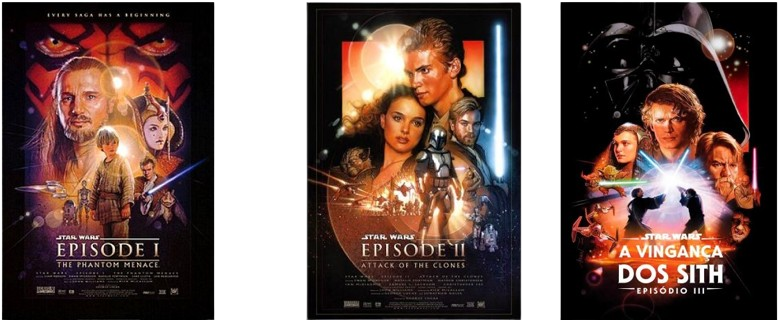
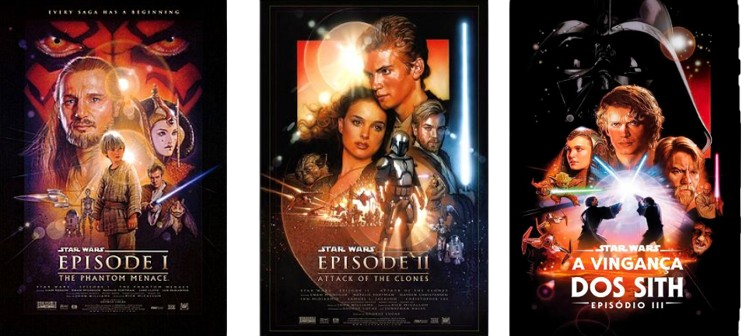
Correcao Css

diff --git a/Algoritomo/Site/public/index.html b/Algoritomo/Site/public/index.html
@@ -49,52 +49,52 @@
 
   <div style="background-image: url(Imagens/div_2.jpg);color: yellow; height: auto; display: flex;flex-direction: column; align-items: center;">
     <div style="display: flex; flex-direction: column;align-items:center;"> <br>
-      <div style="width: 3px; height: 128%;background-color: rgb(0, 0, 0);border-color: black;position: absolute;top: 1000px;left: 50%;"></div>
-<hr style="width: 8%; height: 4px;background-color: rgb(0, 0, 0);border-color: black;position: absolute;top: 135%;left: 42%;">
-<hr style="width: 8%; height: 4px;background-color: rgb(0, 0, 0);border-color: black;position: absolute;top: 178%;left: 50%;"> 
-<hr style="width: 8%; height: 4px;background-color: rgb(0, 0, 0);border-color: black;position: absolute;top: 215%;left: 42%;">    
+      <div style="width: 3px; height: 170%;background-color: rgb(0, 0, 0);border-color: black;position: absolute;top: 1165px;left: 50%;"></div>
+<hr style="width: 4%; height: 4px;background-color: rgb(0, 0, 0);border-color: black;position: absolute;top: 215%;left: 46%;">
+<hr style="width: 4%; height: 4px;background-color: rgb(0, 0, 0);border-color: black;position: absolute;top: 275%;left: 50%;"> 
+<hr style="width: 4%; height: 4px;background-color: rgb(0, 0, 0);border-color: black;position: absolute;top: 320%;left: 46%;">    
    <h1>Filmes</h1><br><br><br>
 
-<span style="margin-right: 70%;">TRILOGIA I</span><br>
-<img style="margin-right: 65%;" src="Imagens/Triologia_I.png"><br>
+<span style="margin-right: 54%;">TRILOGIA I</span><br><br>
+<img style="margin-right: 730px; height: 280px;" src="Imagens/Triologia_I.png"><br>
 
-<span style="margin-left: 70%;">TRILOGIA II</span><br>
-<img style="margin-left: 64%;" src="Imagens/Triologia_II.png"><br>
+<span style="margin-left: 760px;">TRILOGIA II</span><br><br>
+<img style="margin-left: 53%;height: 280px;" src="Imagens/Triologia_II.png"><br>
 
-<span style="margin-right: 70%;">TRILOGIA III</span><br>
-<img style="margin-right: 64%;" src="Imagens/Triologia_III.png"><br><br><br>
+<span style="margin-right: 50%;">TRILOGIA III</span><br><br>
+<img style="margin-right: 54%;height: 260px;" src="Imagens/Triologia_III.png"><br><br><br>
    
-   <div style="width: 3px; height: 100%;background-color: rgb(0, 0, 0);border-color: black;position: absolute;top: 2250px;left: 50%;"></div>
-<hr style="width: 8%; height: 4px;background-color: rgb(0, 0, 0);border-color: black;position: absolute;top: 275%;left: 42%;">
-<hr style="width: 8%; height: 4px;background-color: rgb(0, 0, 0);border-color: black;position: absolute;top: 320%;left: 50%;"> 
+   <div style="width: 3px; height: 147%;background-color: rgb(0, 0, 0);border-color: black;position: absolute;top: 2360px;left: 50%;"></div>
+<hr style="width: 8%; height: 4px;background-color: rgb(0, 0, 0);border-color: black;position: absolute;top: 400%;left: 42%;">
+<hr style="width: 8%; height: 4px;background-color: rgb(0, 0, 0);border-color: black;position: absolute;top: 470%;left: 50%;"> 
 
     <h1>Força</h1><br><br><br>
-    <span style=" margin-right: 1110px;"> SEGUNDO MESTRE YODA   </span><br>
-    <img style=" margin-right: 1110px;height: 370px;" src="Imagens/metre_yoda.jpg"  ><br>
-    <span style=" margin-left: 1110px;">
-    SEGUNDO MESTRE QUI-GON JINN
-</span><br>
+    <span style=" margin-right: 900px;"> SEGUNDO MESTRE YODA   </span><br><br>
+    <img style=" margin-right: 900px;height: 370px;" src="Imagens/metre_yoda.jpg"  ><br>
+    <span style=" margin-left: 900px;">SEGUNDO MESTRE QUI-GON JINN</span><br><br>
 
-    <img src="Imagens/Qui-Gon Jinn.png" style="margin-left: 1110px;height: 370px;" ><br><br><br>
-    <div style="width: 3px; height: 99%;background-color: rgb(0, 0, 0);border-color: black;position: absolute;top: 3220px;left: 50%;"></div>
-<hr style="width: 8%; height: 4px;background-color: rgb(0, 0, 0);border-color: black;position: absolute;top: 375%;left: 42%;">
-<hr style="width: 8%; height: 4px;background-color: rgb(0, 0, 0);border-color: black;position: absolute;top: 420%;left: 50%;"> 
+    <img src="Imagens/Qui-Gon Jinn.png" style="margin-left: 900px;height: 370px;" ><br><br><br>
+<div style="width: 3px; height: 147%;background-color: rgb(0, 0, 0);border-color: black;position: absolute;
+top: 3380px;left: 50%;"></div>
+<hr style="width: 8%; height: 4px;background-color: rgb(0, 0, 0);border-color: black;position: absolute;top: 560%;left: 42%;">
+<hr style="width: 8%; height: 4px;background-color: rgb(0, 0, 0);border-color: black;position: absolute;top: 620%;left: 50%;"> 
     <h1>Armas</h1><br><br><br>
-    <span style=" margin-right: 1110px;">BLASTERS  </span><br>
-     <img src="Imagens/blaters.png"  style=" margin-right: 1110px;height: 370px;">
-   <span style=" margin-left: 1110px;">CRISTAIS KYBER </span><br>
-     <img src="Imagens/sabres.png" style="margin-left: 1110px;height: 370px;"><br><br><br><br>
+    <span style=" margin-right: 870px;">BLASTERS  </span><br><br>
+     <img src="Imagens/blaters.png"  style=" margin-right: 800px;height: 370px;">
+   <span style=" margin-left: 870px;">CRISTAIS KYBER </span><br><br> 
+     <img src="Imagens/sabres.png" style="margin-left: 900px;height: 370px;"><br><br><br><br>
 
-<div style="width: 3px; height: 90%;background-color: rgb(0, 0, 0);border-color: black;position: absolute;top: 4190px;left: 50%;"></div>
-<hr style="width: 8%; height: 4px;background-color: rgb(0, 0, 0);border-color: black;position: absolute;top: 485%;left: 42%;">
-<hr style="width: 8%; height: 4px;background-color: rgb(0, 0, 0);border-color: black;position: absolute;top: 530%;left: 50%;"> 
+<div style="width: 3px; height: 147%;background-color: rgb(0, 0, 0);border-color: black;position: absolute;
+top: 4398px;left: 50%;"></div>
+<hr style="width: 8%; height: 4px;background-color: rgb(0, 0, 0);border-color: black;position: absolute;top: 710%;left: 42%;">
+<hr style="width: 8%; height: 4px;background-color: rgb(0, 0, 0);border-color: black;position: absolute;top: 780%;left: 50%;">
      
     <h1> Aliança Rebelde X Império</h1><br><br><br>
-     <span style=" margin-right: 1110px;">ALIANÇA REBELDE </span><br>
-    <img src="Imagens/logo_rebeldes.png"  style=" margin-right: 1110px;height: 370px;">
-  <span style=" margin-left: 1110px;">IMPÉRIO </span><br>
-    <img src="Imagens/logo_imperio.png" style="margin-left: 1110px;height: 370px;">
-    </div>
+     <span style=" margin-right: 870px;">ALIANÇA REBELDE </span><br><br>
+    <img src="Imagens/logo_rebeldes.png"  style=" margin-right:900px;height: 370px;">
+  <span style=" margin-left: 870px;">IMPÉRIO </span><br><br>
+    <img src="Imagens/logo_imperio.png" style="margin-left: 900px;height: 370px;">
+    </div><br><br><br>
    <div style="background-image: url(Imagens/fundo_index.jpg);color: yellow; font-size: 20px; padding: 30px; font-family: Arial, sans-serif;">
   <p>
     Os Wookiees são uma raça fictícia do universo de Star Wars. São grandes humanoides peludos de constituição forte e cultura tribal, costumam ter cerca de 2,1 m de altura e uma pelagem natural uniforme que cobre todo o seu corpo. Habitam o planeta Kashyyyk.<br>
